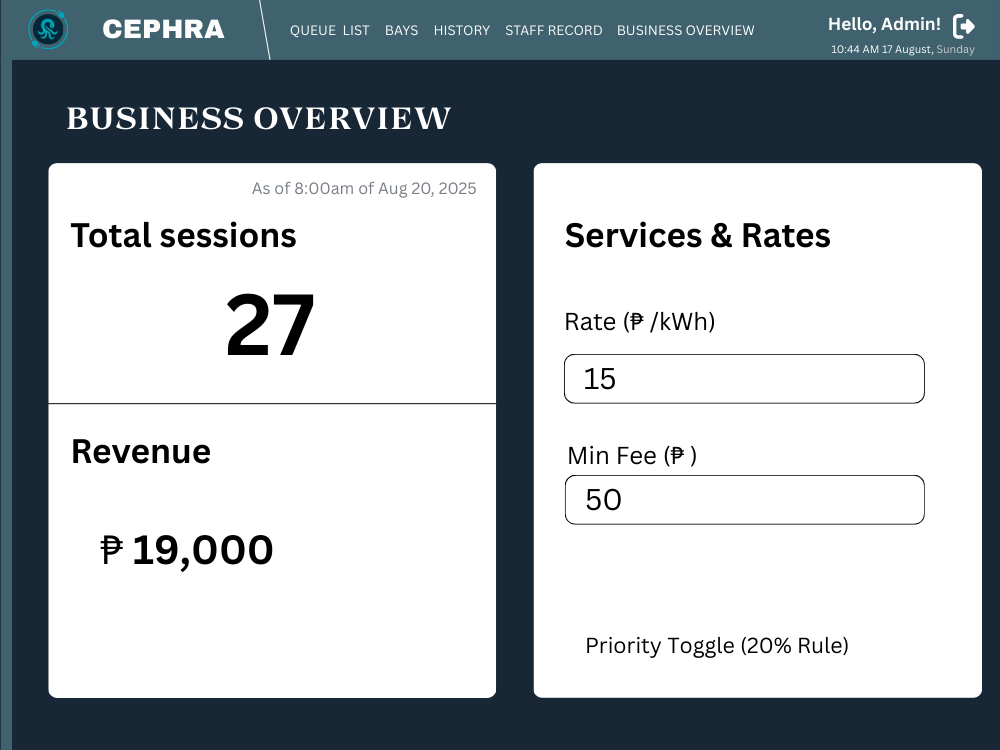
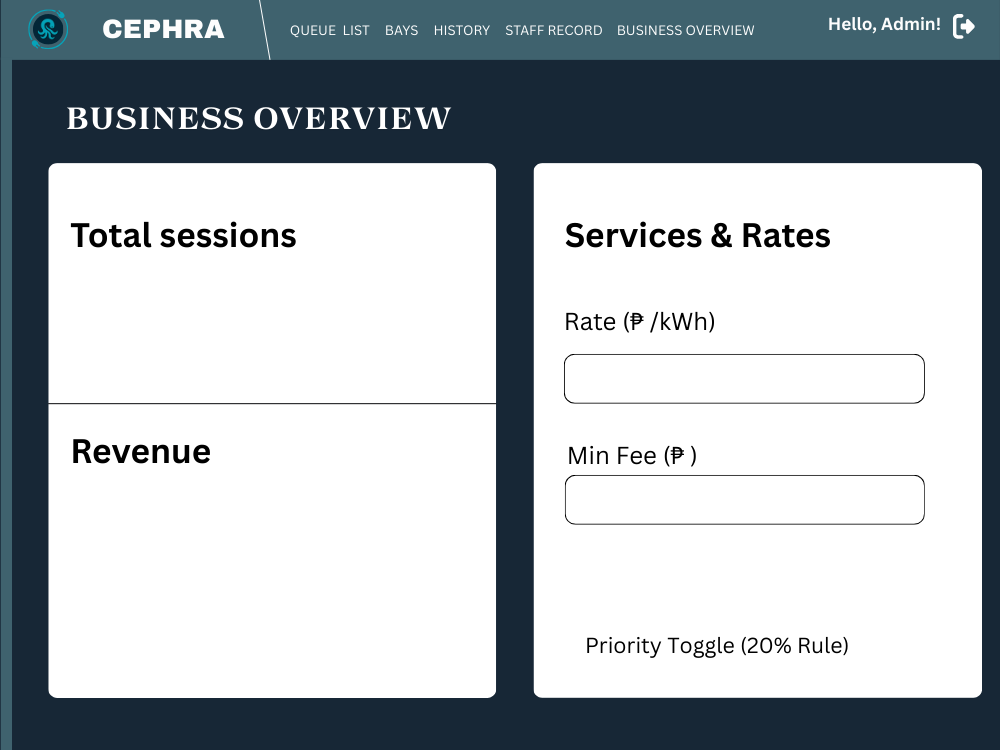
latest

diff --git a/src/main/java/cephra/Admin/Dashboard.java b/src/main/java/cephra/Admin/Dashboard.java
@@ -10,6 +10,7 @@ public class Dashboard extends javax.swing.JPanel {
         setSize(1000, 750);
         loadDashboardImage();
         updateLabelIcon();
+        setupDateTimeTimer();
         addComponentListener(new java.awt.event.ComponentAdapter() {
             @Override
             public void componentResized(java.awt.event.ComponentEvent e) {
@@ -24,9 +25,11 @@ public class Dashboard extends javax.swing.JPanel {
         staffbutton = new javax.swing.JButton();
         historybutton = new javax.swing.JButton();
         Baybutton = new javax.swing.JButton();
+        datetime1 = new javax.swing.JLabel();
         quebutton = new javax.swing.JButton();
         exitlogin = new javax.swing.JButton();
-        toggleSwitch = new cephra.Admin.ToggleSwitch();
+        jToggleButton1 = new javax.swing.JToggleButton();
+        datetime = new javax.swing.JLabel();
         jLabel1 = new javax.swing.JLabel();
 
         setMaximumSize(new java.awt.Dimension(1000, 750));
@@ -37,103 +40,126 @@ public class Dashboard extends javax.swing.JPanel {
         staffbutton.setBorder(null);
         staffbutton.setBorderPainted(false);
         staffbutton.setContentAreaFilled(false);
-        add(staffbutton);
-        staffbutton.setBounds(500, 10, 110, 40);
         staffbutton.addActionListener(new java.awt.event.ActionListener() {
             public void actionPerformed(java.awt.event.ActionEvent evt) {
-                java.awt.Window w = javax.swing.SwingUtilities.getWindowAncestor(Dashboard.this);
-                if (w instanceof cephra.Frame.Admin) {
-                    ((cephra.Frame.Admin) w).switchPanel(new cephra.Admin.StaffRecord());
-                }
+                staffbuttonActionPerformed(evt);
             }
         });
+        add(staffbutton);
+        staffbutton.setBounds(500, 10, 110, 40);
 
         historybutton.setBorder(null);
         historybutton.setBorderPainted(false);
         historybutton.setContentAreaFilled(false);
-        add(historybutton);
-        historybutton.setBounds(430, 10, 60, 40);
         historybutton.addActionListener(new java.awt.event.ActionListener() {
             public void actionPerformed(java.awt.event.ActionEvent evt) {
-                java.awt.Window w = javax.swing.SwingUtilities.getWindowAncestor(Dashboard.this);
-                if (w instanceof cephra.Frame.Admin) {
-                    ((cephra.Frame.Admin) w).switchPanel(new cephra.Admin.History());
-                }
+                historybuttonActionPerformed(evt);
             }
         });
+        add(historybutton);
+        historybutton.setBounds(430, 10, 60, 40);
 
         Baybutton.setBorder(null);
         Baybutton.setBorderPainted(false);
         Baybutton.setContentAreaFilled(false);
-        add(Baybutton);
-        Baybutton.setBounds(380, 10, 40, 40);
         Baybutton.addActionListener(new java.awt.event.ActionListener() {
             public void actionPerformed(java.awt.event.ActionEvent evt) {
-                java.awt.Window w = javax.swing.SwingUtilities.getWindowAncestor(Dashboard.this);
-                if (w instanceof cephra.Frame.Admin) {
-                    ((cephra.Frame.Admin) w).switchPanel(new cephra.Admin.Bay());
-                }
+                BaybuttonActionPerformed(evt);
             }
         });
+        add(Baybutton);
+        Baybutton.setBounds(380, 10, 40, 40);
+
+        datetime1.setFont(new java.awt.Font("Segoe UI", 0, 15)); // NOI18N
+        datetime1.setForeground(new java.awt.Color(153, 153, 153));
+        datetime1.setText("As of 8:00 AM of Aug 20, 2025");
+        add(datetime1);
+        datetime1.setBounds(250, 180, 230, 20);
 
         quebutton.setBorder(null);
         quebutton.setBorderPainted(false);
         quebutton.setContentAreaFilled(false);
-        add(quebutton);
-        quebutton.setBounds(270, 10, 100, 40);
         quebutton.addActionListener(new java.awt.event.ActionListener() {
             public void actionPerformed(java.awt.event.ActionEvent evt) {
                 quebuttonActionPerformed(evt);
             }
         });
+        add(quebutton);
+        quebutton.setBounds(270, 10, 100, 40);
 
         exitlogin.setBorder(null);
         exitlogin.setBorderPainted(false);
         exitlogin.setContentAreaFilled(false);
-        add(exitlogin);
-        exitlogin.setBounds(930, 0, 70, 60);
         exitlogin.addActionListener(new java.awt.event.ActionListener() {
             public void actionPerformed(java.awt.event.ActionEvent evt) {
-                java.awt.Window w = javax.swing.SwingUtilities.getWindowAncestor(Dashboard.this);
-                if (w instanceof cephra.Frame.Admin) {
-                    ((cephra.Frame.Admin) w).switchPanel(new cephra.Admin.Login());
-                }
+                exitloginActionPerformed(evt);
             }
         });
-        add(toggleSwitch);
-        toggleSwitch.setBounds(577, 600, 60, 30);
+        add(exitlogin);
+        exitlogin.setBounds(930, 0, 70, 60);
+        add(jToggleButton1);
+        jToggleButton1.setBounds(610, 580, 30, 50);
+
+        datetime.setFont(new java.awt.Font("Segoe UI", 0, 11)); // NOI18N
+        datetime.setForeground(new java.awt.Color(255, 255, 255));
+        datetime.setText("10:44 AM 17 August, Sunday");
+        add(datetime);
+        datetime.setBounds(820, 40, 170, 20);
 
         jLabel1.setIcon(new javax.swing.ImageIcon(getClass().getResource("/cephra/Photos/Business.png"))); // NOI18N
         add(jLabel1);
         jLabel1.setBounds(0, 0, 1240, 750);
-
-        // Ensure controls are above background
-        setComponentZOrder(jLabel1, getComponentCount() - 1);
-        setComponentZOrder(staffbutton, 0);
-        setComponentZOrder(historybutton, 0);
-        setComponentZOrder(Baybutton, 0);
-        setComponentZOrder(quebutton, 0);
-        setComponentZOrder(exitlogin, 0);
-        setComponentZOrder(toggleSwitch, 0);
     }// </editor-fold>//GEN-END:initComponents
 
-
-    // Variables declaration - do not modify//GEN-BEGIN:variables
-    private javax.swing.JButton Baybutton;
-    private javax.swing.JButton exitlogin;
-    private javax.swing.JButton historybutton;
-    private javax.swing.JLabel jLabel1;
-    private cephra.Admin.ToggleSwitch toggleSwitch;
-    private javax.swing.JButton quebutton;
-    private javax.swing.JButton staffbutton;
-    // End of variables declaration//GEN-END:variables
-
-    private void quebuttonActionPerformed(java.awt.event.ActionEvent evt) {
+    private void quebuttonActionPerformed(java.awt.event.ActionEvent evt) {//GEN-FIRST:event_quebuttonActionPerformed
         java.awt.Window w = javax.swing.SwingUtilities.getWindowAncestor(Dashboard.this);
         if (w instanceof cephra.Frame.Admin) {
             ((cephra.Frame.Admin) w).switchPanel(new cephra.Admin.Queue());
         }
-    }
+    }//GEN-LAST:event_quebuttonActionPerformed
+
+    private void BaybuttonActionPerformed(java.awt.event.ActionEvent evt) {//GEN-FIRST:event_BaybuttonActionPerformed
+      java.awt.Window w = javax.swing.SwingUtilities.getWindowAncestor(Dashboard.this);
+        if (w instanceof cephra.Frame.Admin) {
+            ((cephra.Frame.Admin) w).switchPanel(new cephra.Admin.Bay());
+        }
+    }//GEN-LAST:event_BaybuttonActionPerformed
+
+    private void historybuttonActionPerformed(java.awt.event.ActionEvent evt) {//GEN-FIRST:event_historybuttonActionPerformed
+       java.awt.Window w = javax.swing.SwingUtilities.getWindowAncestor(Dashboard.this);
+        if (w instanceof cephra.Frame.Admin) {
+            ((cephra.Frame.Admin) w).switchPanel(new cephra.Admin.History());
+        }
+    }//GEN-LAST:event_historybuttonActionPerformed
+
+    private void staffbuttonActionPerformed(java.awt.event.ActionEvent evt) {//GEN-FIRST:event_staffbuttonActionPerformed
+      java.awt.Window w = javax.swing.SwingUtilities.getWindowAncestor(Dashboard.this);
+        if (w instanceof cephra.Frame.Admin) {
+            ((cephra.Frame.Admin) w).switchPanel(new cephra.Admin.StaffRecord());
+        }
+    }//GEN-LAST:event_staffbuttonActionPerformed
+
+    private void exitloginActionPerformed(java.awt.event.ActionEvent evt) {//GEN-FIRST:event_exitloginActionPerformed
+        java.awt.Window w = javax.swing.SwingUtilities.getWindowAncestor(Dashboard.this);
+        if (w instanceof cephra.Frame.Admin) {
+            ((cephra.Frame.Admin) w).switchPanel(new cephra.Admin.Login());
+        }
+    }//GEN-LAST:event_exitloginActionPerformed
+
+
+    // Variables declaration - do not modify//GEN-BEGIN:variables
+    private javax.swing.JButton Baybutton;
+    private javax.swing.JLabel datetime;
+    private javax.swing.JLabel datetime1;
+    private javax.swing.JButton exitlogin;
+    private javax.swing.JButton historybutton;
+    private javax.swing.JLabel jLabel1;
+    private javax.swing.JToggleButton jToggleButton1;
+    private javax.swing.JButton quebutton;
+    private javax.swing.JButton staffbutton;
+    // End of variables declaration//GEN-END:variables
+
+   
 
     private void loadDashboardImage() {
         try {
@@ -158,5 +184,40 @@ public class Dashboard extends javax.swing.JPanel {
         int h = Math.max(1, getHeight());
         java.awt.Image scaled = dashboardImage.getScaledInstance(w, h, java.awt.Image.SCALE_SMOOTH);
         jLabel1.setIcon(new javax.swing.ImageIcon(scaled));
+    }
+    
+    private void setupDateTimeTimer() {
+        updateDateTime();
+        updateDateTime1();
+        javax.swing.Timer timer = new javax.swing.Timer(1000, new java.awt.event.ActionListener() {
+            @Override
+            public void actionPerformed(java.awt.event.ActionEvent e) {
+                updateDateTime();
+                updateDateTime1();
+            }
+        });
+        timer.start();
+    }
+    
+    private void updateDateTime() {
+        java.text.SimpleDateFormat timeFormat = new java.text.SimpleDateFormat("hh:mm a");
+        java.text.SimpleDateFormat dateFormat = new java.text.SimpleDateFormat("dd MMMM, EEEE");
+        
+        java.util.Date now = new java.util.Date();
+        String time = timeFormat.format(now);
+        String date = dateFormat.format(now);
+        
+        datetime.setText(time + " " + date);
+    }
+    
+    private void updateDateTime1() {
+        java.text.SimpleDateFormat timeFormat = new java.text.SimpleDateFormat("hh:mm a");
+        java.text.SimpleDateFormat dateFormat = new java.text.SimpleDateFormat("MMM dd, yyyy");
+        
+        java.util.Date now = new java.util.Date();
+        String time = timeFormat.format(now);
+        String date = dateFormat.format(now);
+        
+        datetime1.setText("As of " + time + " of " + date);
     }
 }

diff --git a/src/main/java/cephra/Admin/History.java b/src/main/java/cephra/Admin/History.java
@@ -24,6 +24,7 @@ public class History extends javax.swing.JPanel {
         quebutton = new javax.swing.JButton();
         jLabel1 = new javax.swing.JLabel();
 
+        setMaximumSize(new java.awt.Dimension(1000, 750));
         setLayout(null);
 
         Baybutton.setBorder(null);
@@ -81,7 +82,7 @@ public class History extends javax.swing.JPanel {
         add(quebutton);
         quebutton.setBounds(270, 10, 100, 40);
 
-        jLabel1.setIcon(new javax.swing.ImageIcon(getClass().getResource("/cephra/Photos/DASHBOARD - HISTORY.png"))); // NOI18N
+        jLabel1.setIcon(new javax.swing.ImageIcon(getClass().getResource("/cephra/Photos/adminHistory.png"))); // NOI18N
         add(jLabel1);
         jLabel1.setBounds(0, 0, 1000, 750);
     }// </editor-fold>//GEN-END:initComponents

diff --git a/src/main/java/cephra/Phone/Splashscreen.java b/src/main/java/cephra/Phone/Splashscreen.java
@@ -44,7 +44,7 @@ public class Splashscreen extends javax.swing.JPanel {
         });
     }
    
-  
+    // <editor-fold defaultstate="collapsed" desc="Generated Code">//GEN-BEGIN:initComponents
     private void initComponents() {
 
         startbutton = new javax.swing.JButton();
@@ -62,7 +62,7 @@ public class Splashscreen extends javax.swing.JPanel {
         add(startbutton);
         startbutton.setBounds(50, 663, 270, 50);
 
-        t.setIcon(new javax.swing.ImageIcon(getClass().getResource("/cephra/Photos/GET STARTED.png"))); // NOI18N
+        t.setIcon(new javax.swing.ImageIcon(getClass().getResource("/cephra/Photos/de final na talaga.gif"))); // NOI18N
         add(t);
         t.setBounds(-15, 0, 398, 750);
     }// </editor-fold>//GEN-END:initComponents

diff --git a/src/main/java/cephra/Admin/Queue.java b/src/main/java/cephra/Admin/Queue.java
@@ -79,7 +79,7 @@ public class Queue extends javax.swing.JPanel {
         add(historybutton);
         historybutton.setBounds(430, 10, 60, 40);
 
-        jLabel1.setIcon(new javax.swing.ImageIcon(getClass().getResource("/cephra/Photos/USer POV.png"))); // NOI18N
+        jLabel1.setIcon(new javax.swing.ImageIcon(getClass().getResource("/cephra/Photos/t.png"))); // NOI18N
         add(jLabel1);
         jLabel1.setBounds(0, 0, 1000, 750);
     }// </editor-fold>//GEN-END:initComponents

diff --git a/src/main/java/cephra/Admin/Bay.java b/src/main/java/cephra/Admin/Bay.java
@@ -46,7 +46,7 @@ public class Bay extends javax.swing.JPanel {
             }
         });
         add(staffbutton);
-        staffbutton.setBounds(500, 10, 110, 40);
+        staffbutton.setBounds(500, 20, 110, 40);
 
         businessbutton.setBorder(null);
         businessbutton.setBorderPainted(false);
